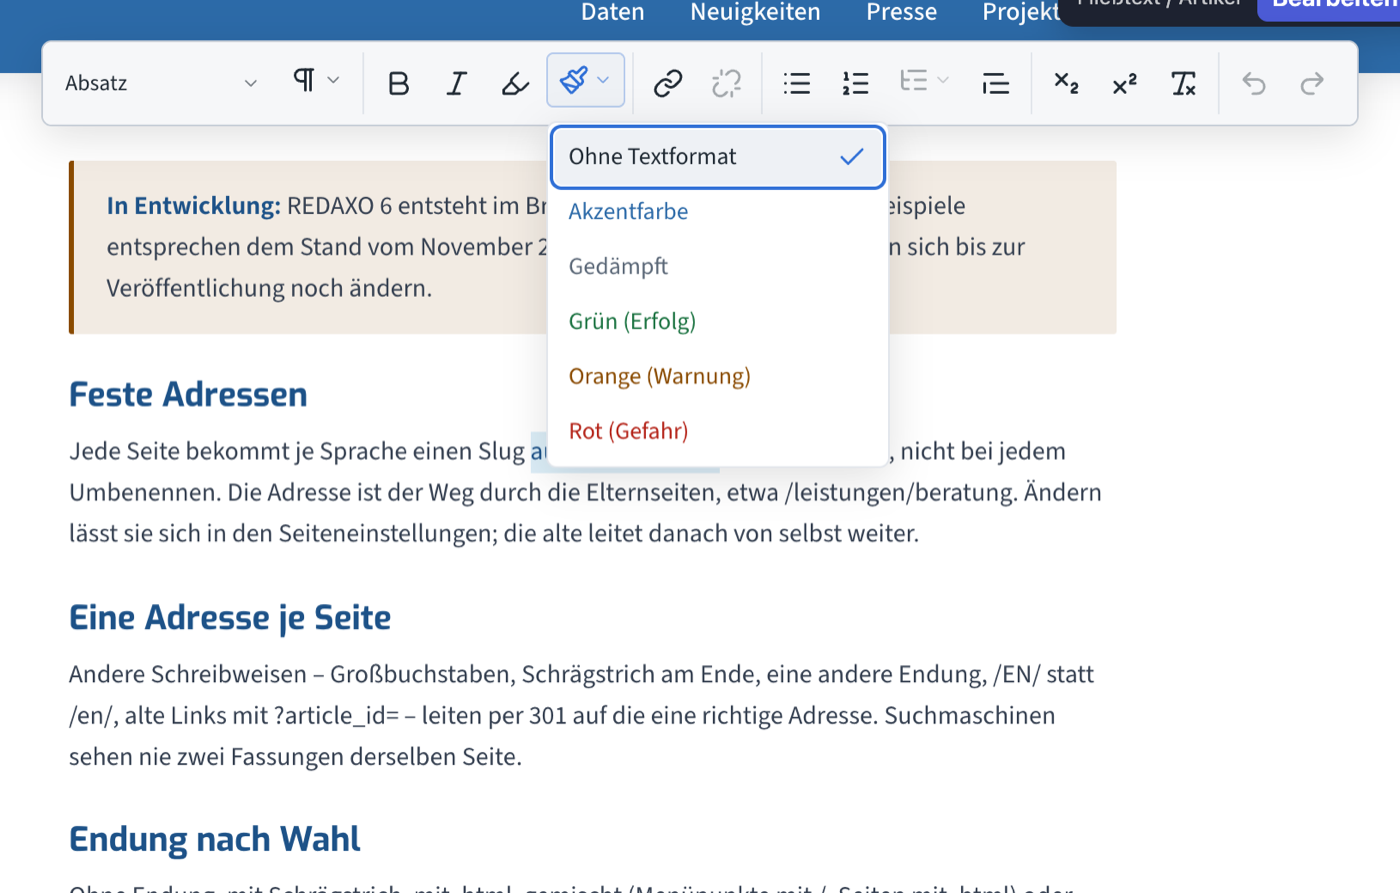
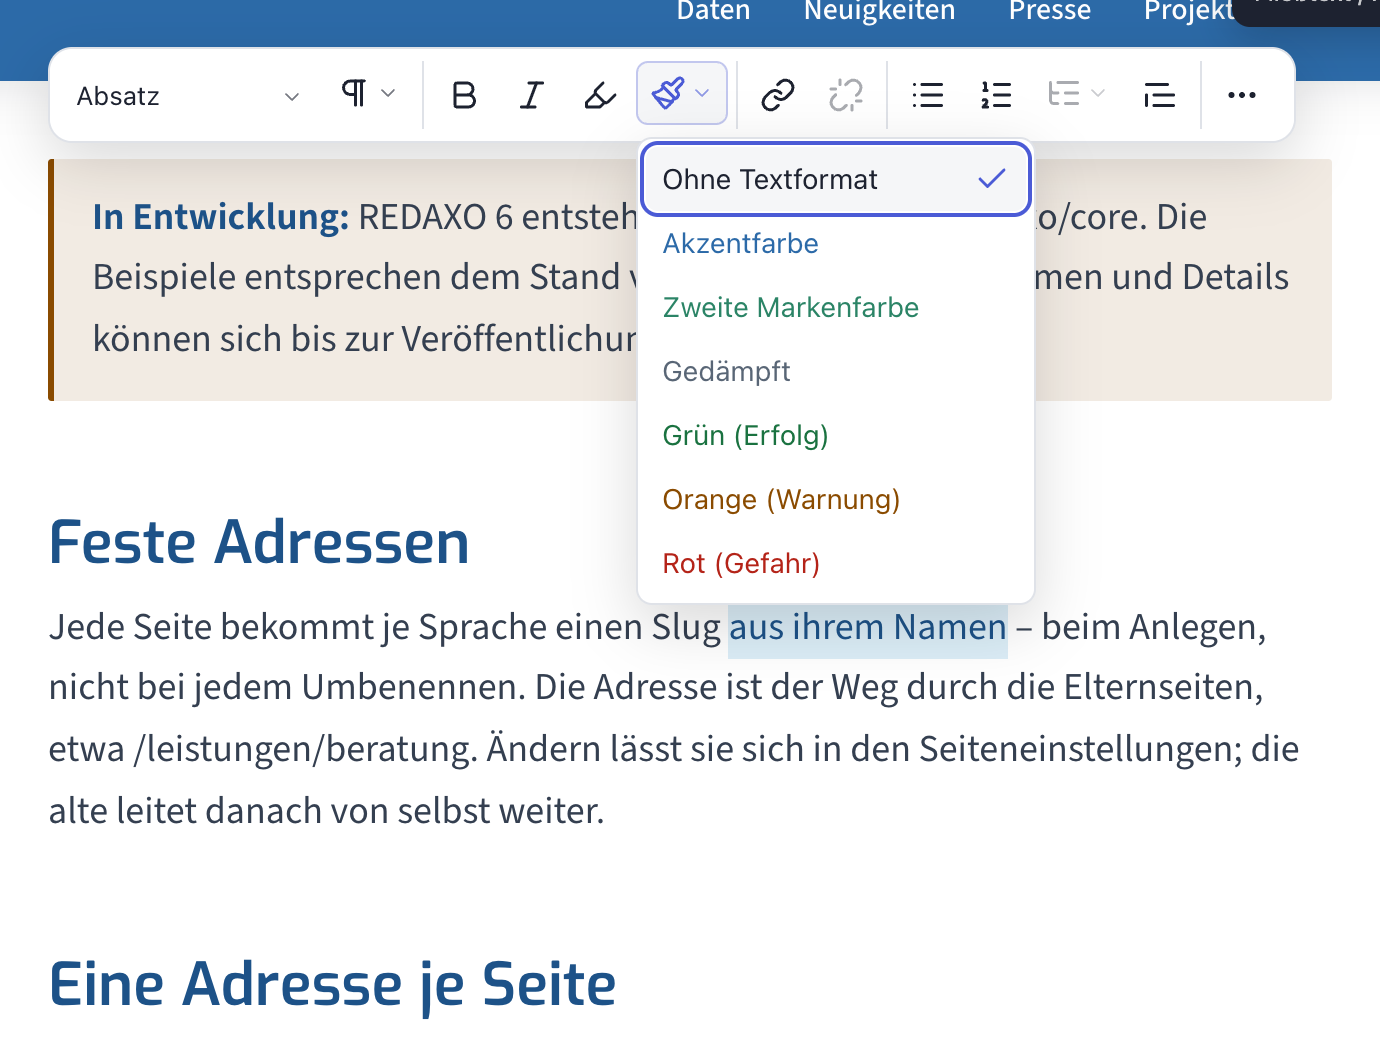
fix(inline): hide the floating link bar again
[hidden] only won over display rules inside the editor box; the link bar
of the inline mode lives in the page and stayed visible after the first
link. README: current picture of the one-line toolbar.

diff --git a/assets/tiptap.css b/assets/tiptap.css
@@ -616,7 +616,8 @@ html.rex-tiptap-has-fullscreen {
 
 /* hidden gewinnt gegen display-Regeln (z. B. .rex-input des Backends) */
 .rex-tiptap [hidden],
-.rex-tiptap-dialog [hidden] {
+.rex-tiptap-dialog [hidden],
+.rex-tiptap-bubble[hidden] {
     display: none !important;
 }
 

diff --git a/README.de.md b/README.de.md
@@ -39,7 +39,8 @@ Ein AddOn von [KLXM Crossmedia](https://klxm.de). · [English](README.md)
   Profil bereinigt. Angemeldete Backend-Benutzer haben auf der Website dieselben Werkzeuge wie im Backend (Linkmap,
   Medienpool, Datensätze); ohne Anmeldung bleiben vorhandene Links erhalten.
 - **Bearbeiten im Kontext (Inline-Modus):** `RexTiptap.inline(element, profil)` macht ein Element der Seite selbst zum
-  Editor – mit schwebender Werkzeugleiste und Link-Leiste, auch im Shadow DOM. So arbeitet z. B.
+  Editor – mit schwebender Werkzeugleiste in einer Zeile (was nicht passt, liegt hinter „⋯“) und Link-Leiste, auch im
+  Shadow DOM. Der Text behält die Typografie der Website, Formate sehen aus wie für Besucher. So arbeitet z. B.
   [fluid](https://github.com/KLXM/fluid) (Bearbeiten auf der Website).
 - **Seiten- und Medienauswahl auf der Website:** Eine Oberfläche wie fluid hängt ihre eigene Auswahl ein
   (`RexTiptap.pick`), im Backend bleibt es `rex.pick()`.

diff --git a/README.md b/README.md
@@ -38,7 +38,8 @@ An addon by [KLXM Crossmedia](https://klxm.de). · [Deutsch](README.de.md)
   profile. Logged-in backend users get the same tools on the website as in the backend (linkmap, media pool,
   records); without a login existing links are kept.
 - **Editing in context (inline mode):** `RexTiptap.inline(element, profile)` turns an element of the page itself into
-  the editor – with a floating toolbar and link bar, shadow DOM included. This is how
+  the editor – with a floating toolbar on one line (what doesn't fit goes behind “⋯”) and link bar, shadow DOM
+  included. The text keeps the website's own typography, so formats look exactly as visitors see them. This is how
   [fluid](https://github.com/KLXM/fluid) (editing on the website) uses it.
 - **Page and media picker on the website:** an interface like fluid plugs in its own picker (`RexTiptap.pick`); in the
   backend it stays `rex.pick()`.

diff --git a/CHANGELOG.md b/CHANGELOG.md
@@ -1,5 +1,11 @@
 # Changelog
 
+## 1.0.0-beta.5 – 2026-11-27
+
+- Fix Inline-Modus: Die schwebende Link-Leiste blieb nach dem ersten Link sichtbar – `hidden` wirkte nur innerhalb der
+  Editor-Box.
+- README: Bild des Inline-Modus mit der einzeiligen Leiste.
+
 ## 1.0.0-beta.4 – 2026-11-27
 
 - Inline-Modus: Der Text hat keine eigene Typografie des Editors mehr (`rex-tiptap-prose`) – es gilt nur das CSS der
